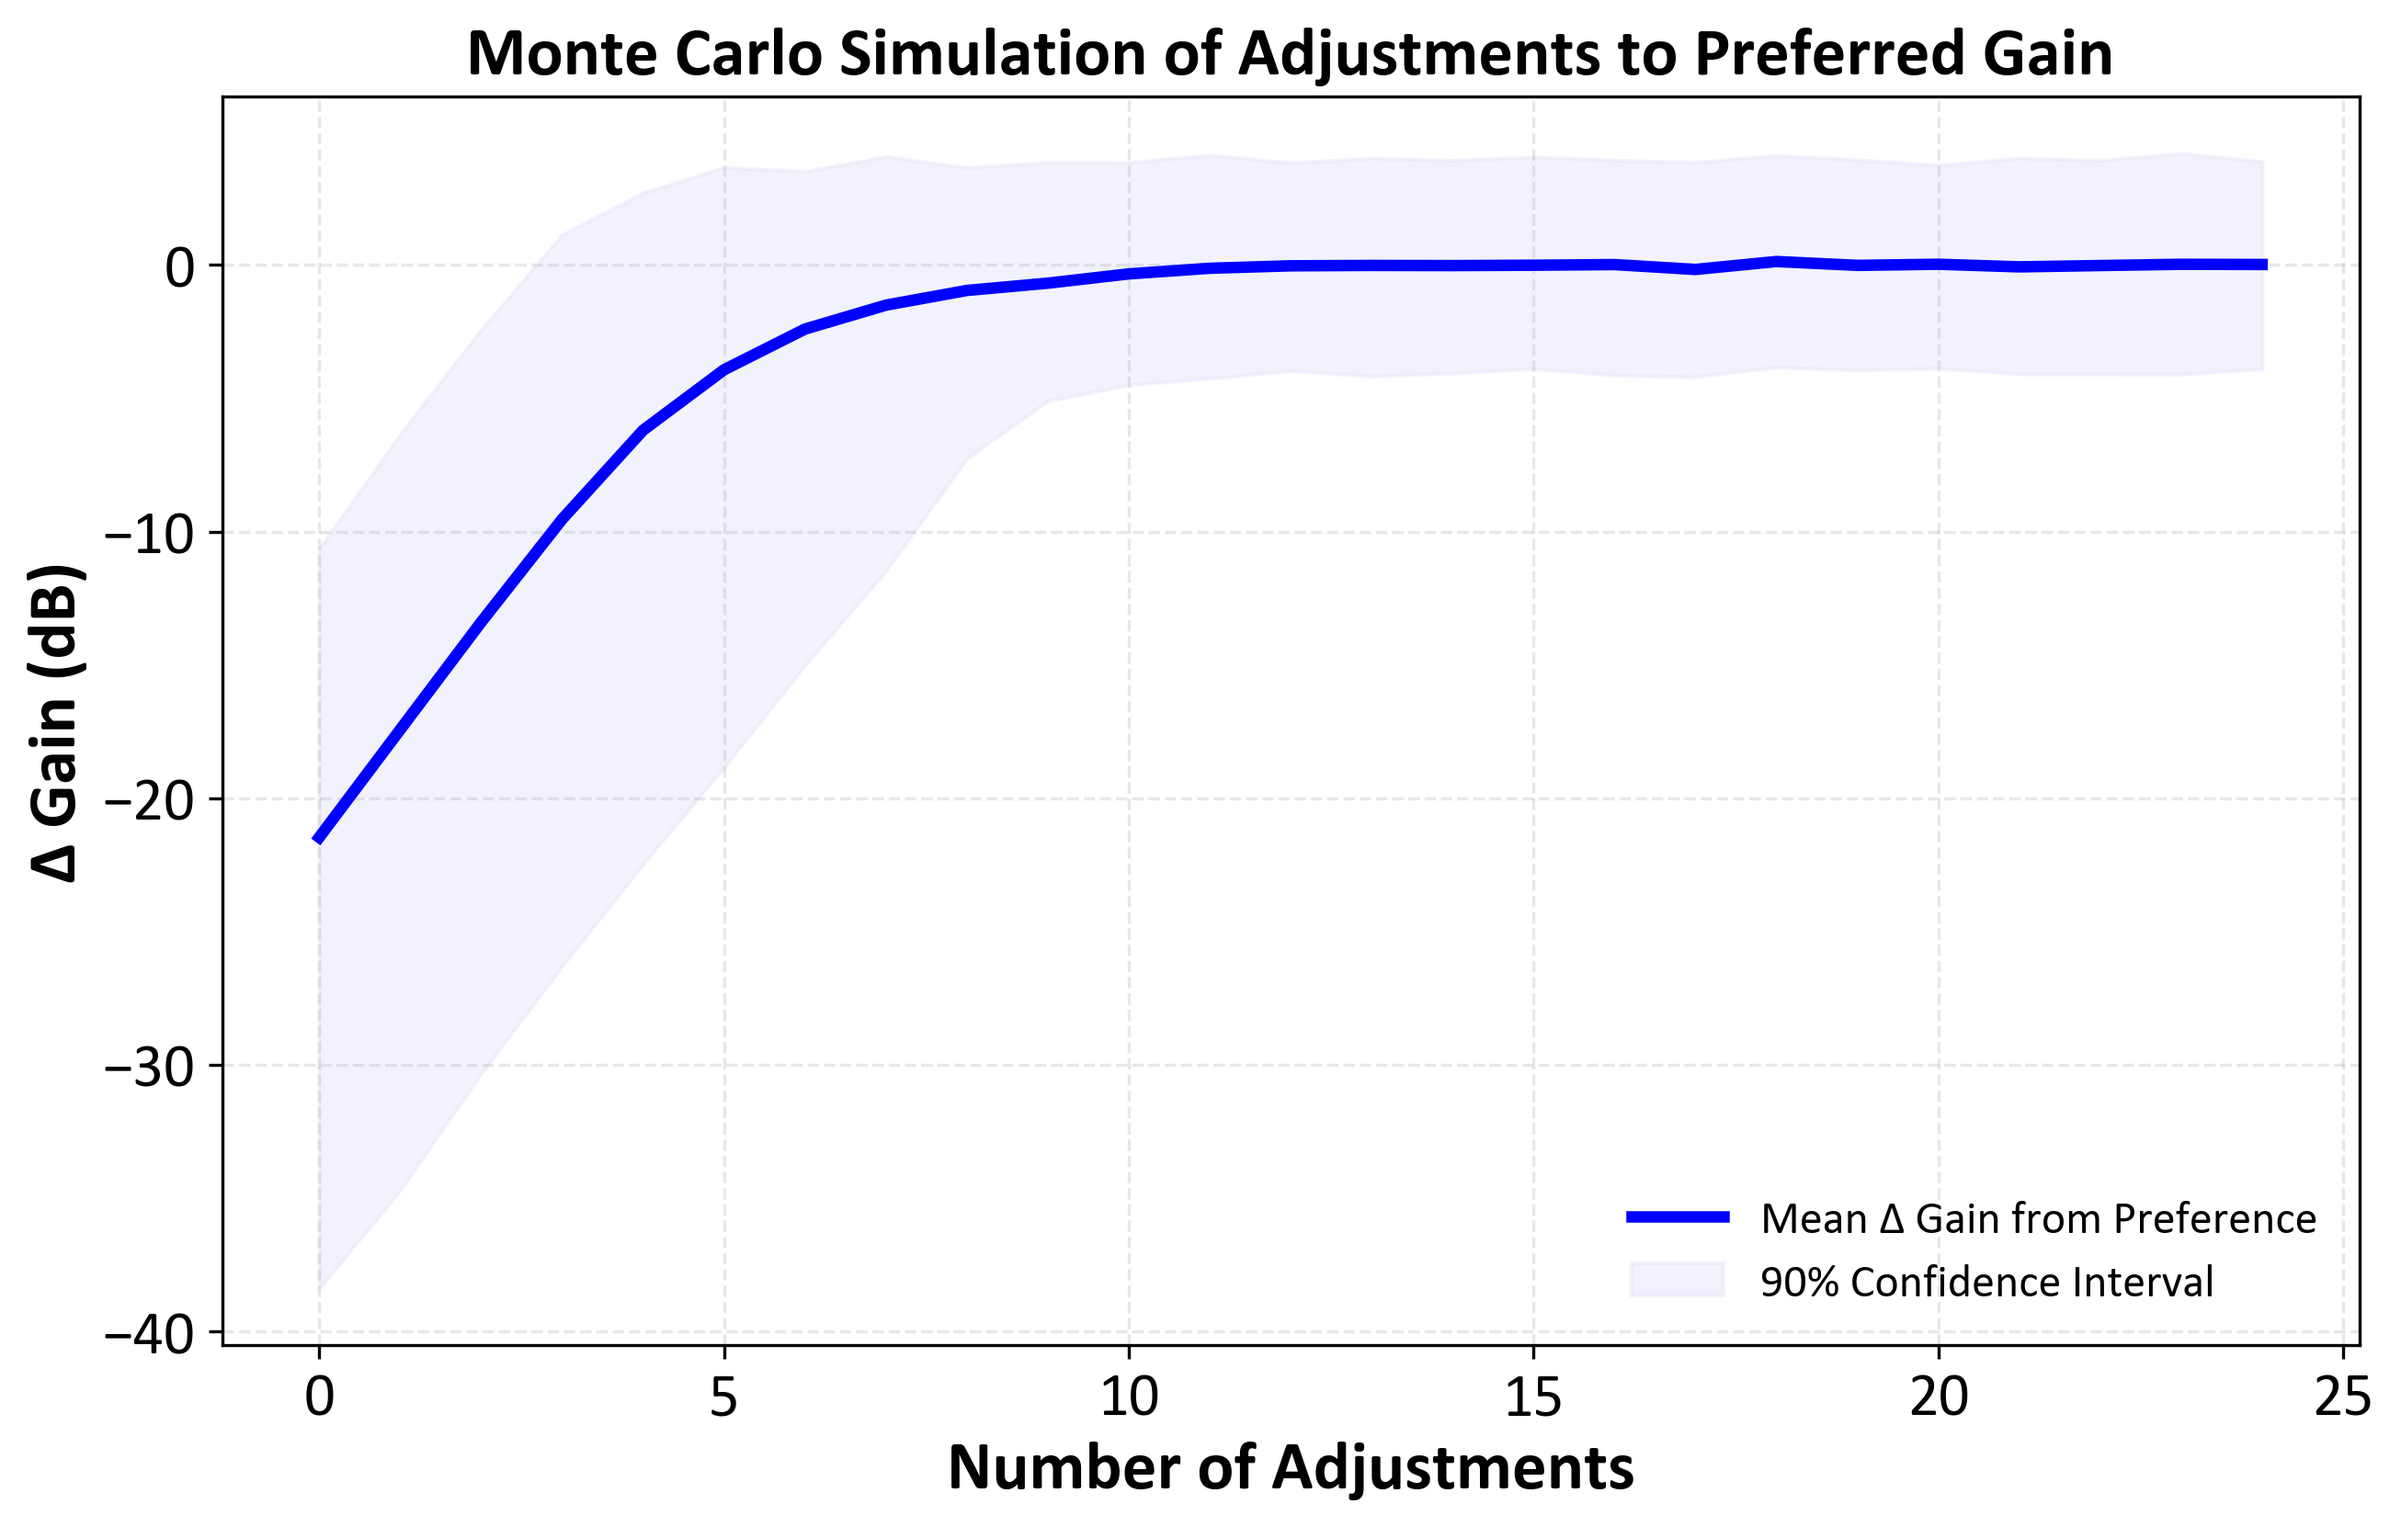
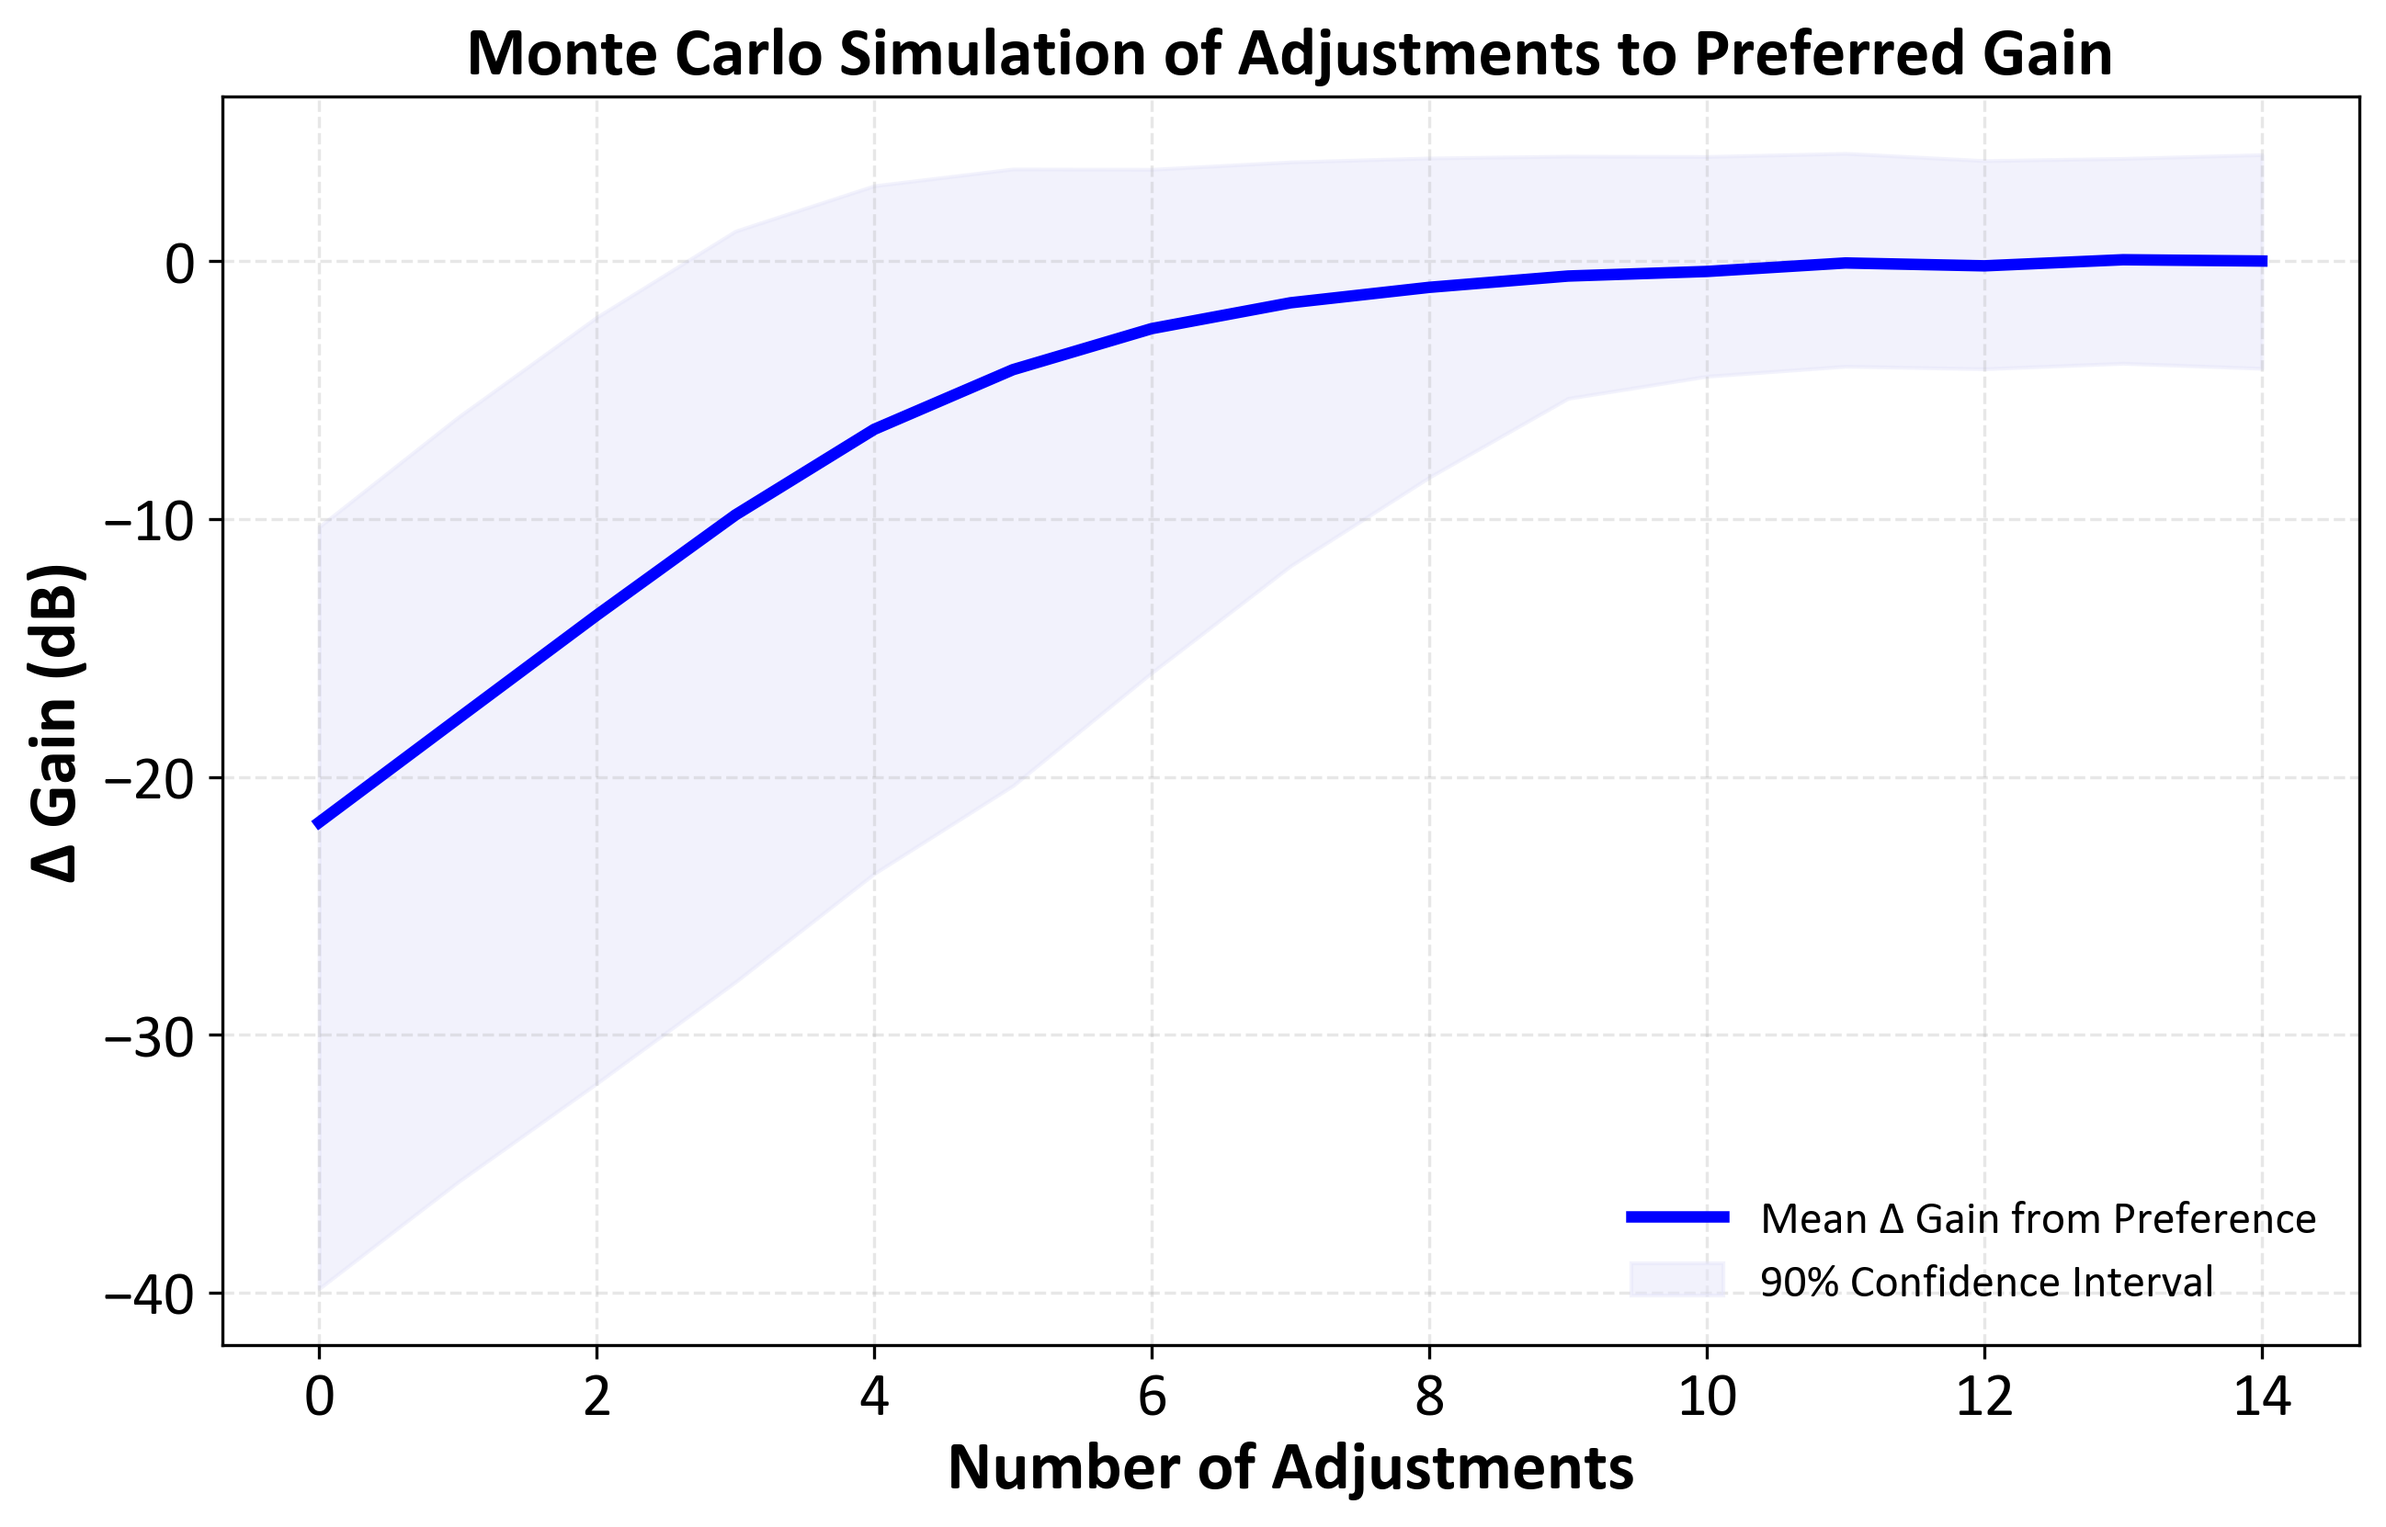
Add files via upload

diff --git a/monte_carlo_gain_adjustment.py b/monte_carlo_gain_adjustment.py
@@ -88,7 +88,7 @@ def monte_carlo_simulation_skewed_preferred_gain(num_simulations, initial_gain, 
 initial_gain = 0  # Initial gain setting (0 to 100 scale)
 preferred_gain_mean = 20  # Mean for skewed distribution (closer to 20 dB, reflecting mild hearing loss)
 preferred_gain_std = 0.4  # Standard deviation for skewed distribution (controls tail length)
-num_adjustments = 25  # Number of self-adjustments (e.g., over sessions)
+num_adjustments = 15  # Number of self-adjustments (e.g., over sessions)
 mean_adjustment = 4  # Mean gain adjustment per session
 std_dev_adjustment = 1  # Variability in adjustment
 num_simulations = 1000  # Number of Monte Carlo simulations
